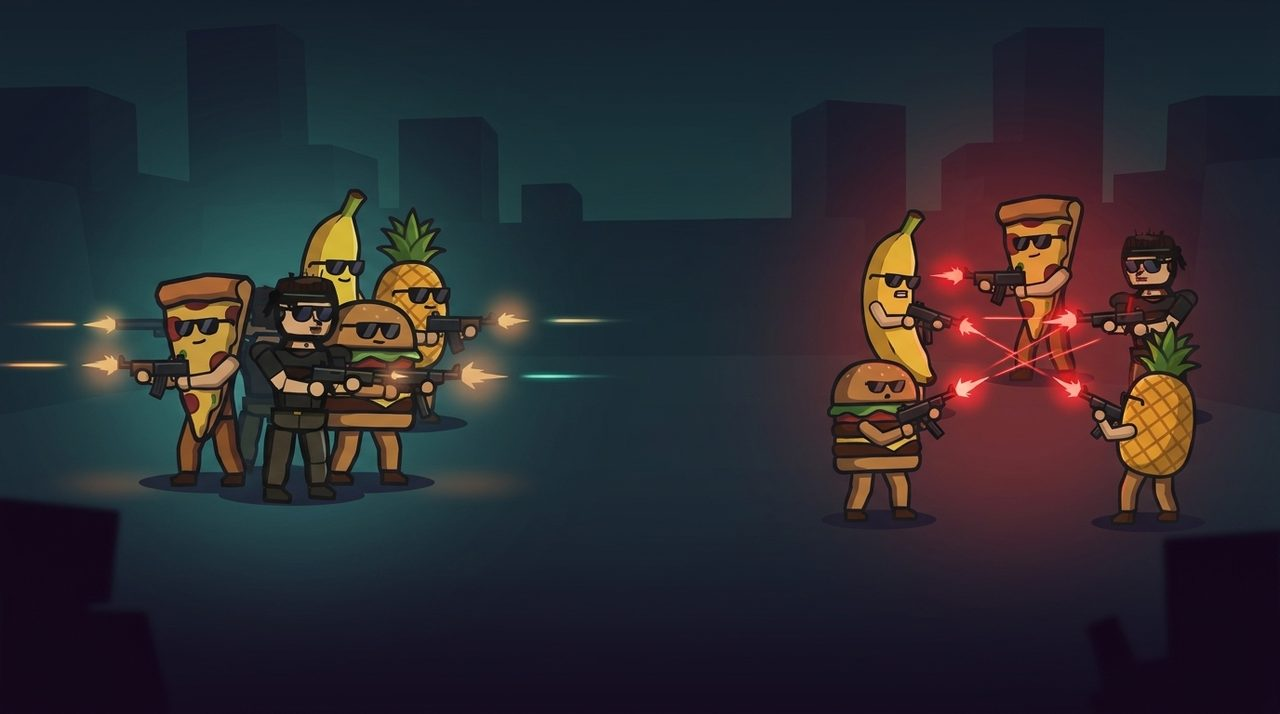
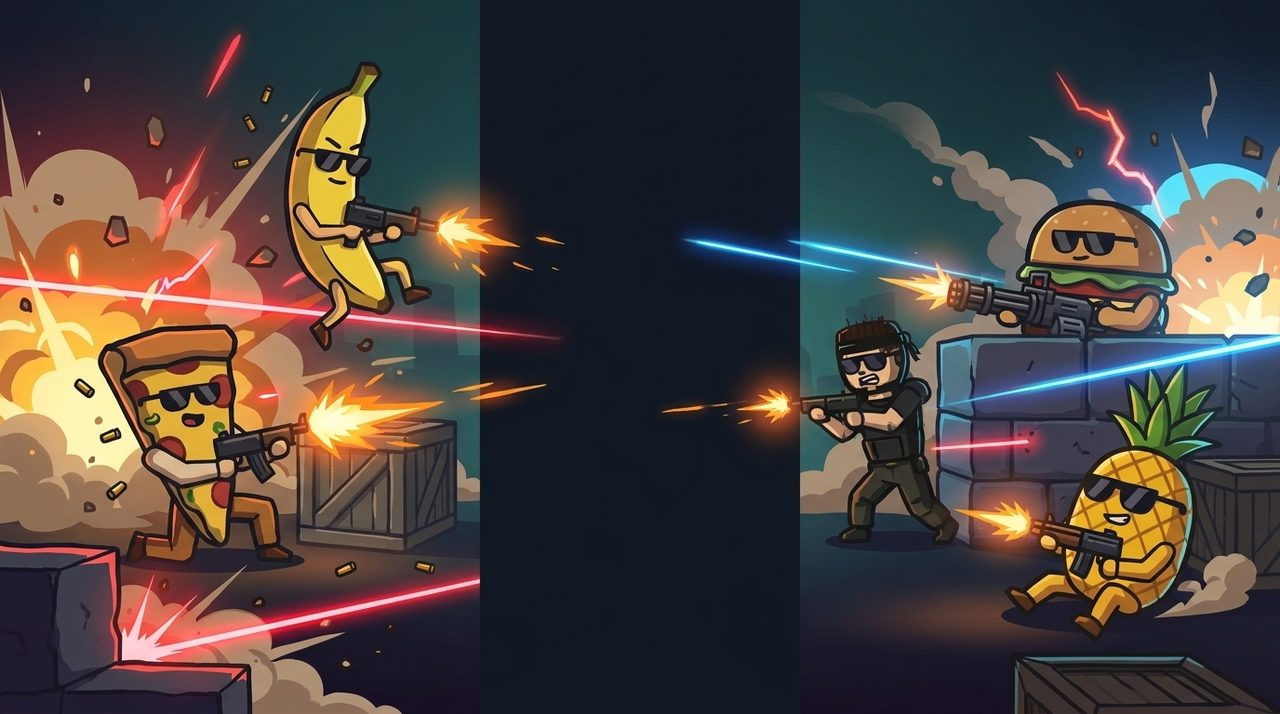
v1.681: ny hetsig startmeny-bild (byggd runt knapparna) + co-op-skärm-bg + knapp-fix
- Co-op-skärmen: bytte bakgrund till den godkända co-op/PvP-cirkel-bilden
  (warparty-coopbg.jpg, bevarad kopia av förra menubg).
- Startmenyn: ny AI-bild (warparty-menubg.jpg, overwrite) — intensiv strid med
  gubbarna pushade mot vänster/höger kant + lugn mörk MITTKOLUMN för logo+knappar
  (byggd runt knapp-layouten), explosioner/tracers/blixt, cartoon-stil.
- SPELA + CO-OP: margin-top 30px (luft under logon) + tajt ner mot griden =
  centrerade i gapet, strax ovanför grid-knapparna.
- Tog bort oanvänd warparty-coop.jpg; SW-cache + version bumpade. Verifierat.

diff --git a/style.css b/style.css
@@ -2234,6 +2234,10 @@ body.heist-mode #hud-toast-stack {
 .wp-tagline .wp-pvp { color: #e8201f; }
 /* SPELA mest prominent (matchar mockup) */
 #btn-start.btn-play-hero { min-width: 280px; font-size: 22px; }
+/* v1.681: SPELA+CO-OP centrerade i gapet under logon, strax ovanför grid-knapparna
+   (luft ovanför paret, tajt ner mot griden). */
+#menu-content > #btn-start.btn-play-hero { margin-top: 30px; }
+#menu-content > #btn-coop.btn-coop-hero { margin-bottom: 16px !important; }
 /* Hjälp/Tutorial = egen full-bredds-rad */
 .menu-btn-wide { flex: 1 1 100% !important; max-width: 100%; }
 /* Sociala ikoner nere till vänster */
@@ -2839,11 +2843,11 @@ body.ultimate-active #game { animation: rainbow-pulse 5s linear infinite; }
   background:
     linear-gradient(180deg, rgba(30,5,15,0.6) 0%, rgba(0,0,0,0.96) 30%, rgba(0,0,0,0.96) 70%, rgba(15,5,20,0.6) 100%);
 }
-/* v1.678: co-op-lobbyn får egen AI-bakgrund (squad mot horden) istället för platt mörk */
+/* v1.681: co-op-lobbyn får samma bild som godkändes (co-op vänster / PvP-cirkel höger) */
 #coop-screen {
   background:
-    linear-gradient(rgba(6,10,14,0.55) 0%, rgba(6,10,14,0.70) 100%),
-    url('assets/menu/warparty-coop.jpg') center center / cover no-repeat,
+    linear-gradient(rgba(6,10,14,0.58) 0%, rgba(6,10,14,0.72) 100%),
+    url('assets/menu/warparty-coopbg.jpg') center center / cover no-repeat,
     #070b0e !important;
   backdrop-filter: none !important;
   -webkit-backdrop-filter: none !important;

diff --git a/index.html b/index.html
@@ -403,7 +403,7 @@
     <a href="#" id="social-twitter" class="wp-social-btn" target="_blank" rel="noopener" aria-label="X / Twitter">𝕏</a>
     <a href="#" id="social-youtube" class="wp-social-btn" target="_blank" rel="noopener" aria-label="YouTube">▶</a>
   </div>
-  <p id="version-tag" style="position:absolute;bottom:max(8px, env(safe-area-inset-bottom, 8px));right:max(12px, env(safe-area-inset-right, 12px));font-size:11px;opacity:0.7;color:#5aff5a;font-weight:900;">v1.680 ⚡</p>
+  <p id="version-tag" style="position:absolute;bottom:max(8px, env(safe-area-inset-bottom, 8px));right:max(12px, env(safe-area-inset-right, 12px));font-size:11px;opacity:0.7;color:#5aff5a;font-weight:900;">v1.681 ⚡</p>
 </div>
 
 <div id="stats-screen" class="overlay hidden">

diff --git a/sw.js b/sw.js
@@ -1,5 +1,5 @@
 // Service Worker — network-first för kod, cache-first för assets
-const CACHE = 'penetrator-v680-warparty-menubg';
+const CACHE = 'penetrator-v681-warparty-startbg';
 const ASSETS = [
   './',
   './index.html',
@@ -9,7 +9,7 @@ const ASSETS = [
   './icon-192.svg',
   './icon-512.svg',
   './assets/menu/warparty-menubg.jpg',
-  './assets/menu/warparty-coop.jpg',
+  './assets/menu/warparty-coopbg.jpg',
   './assets/menu/warparty-logo.png',
   './shared/ctf-arena.js',
   './shared/gungame-arena.js',

diff --git a/server/server.js b/server/server.js
@@ -7,7 +7,7 @@ const { createSim, startSim, stopSim, applyPlayerInput, applyShoot, applyLoadSta
 const PORT = process.env.PORT || 8080;
 
 // Healthcheck + error-reporting endpoint
-const SERVER_VERSION = 'v200-warparty-single-menubg-v1.680';
+const SERVER_VERSION = 'v201-warparty-new-startbg-coopbg-v1.681';
 const SERVER_BUILD_AT = new Date().toISOString();
 const errorLog = []; // ring-buffer av senaste 100 client-side errors
 const ERROR_LOG_MAX = 100;
